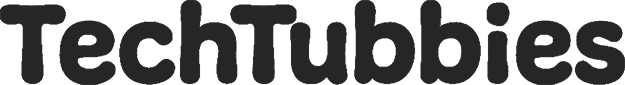
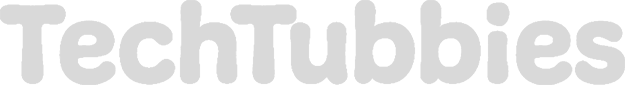
dark mode implementado completamente

diff --git a/public/comunidade.html b/public/comunidade.html
@@ -13,22 +13,25 @@
     <div class="container">
         <div class="header">
             <div class="topHeader">
-                <div class="imgHead imgPo" onclick="location.href='./index.html';"></div>
-                <div class="imgHead imgTinkyWin" onclick="location.href='./curiosidades.html';"></div>
-                <div class="imgHead imgLala" style="background-image: url(./assets/imgs/lala.png); cursor: default;"></div>
-                <div class="imgHead imgDipsy" onclick="location.href='./minijogos.html';"></div>
+                <div id="idImgPo" class="imgHead imgPo" onclick="location.href='./index.html';"></div>
+                <div id="idImgTinkyWin" class="imgHead imgTinkyWin" onclick="location.href='./curiosidades.html';"></div>
+                <div id="idImgLala" class="imgHead LalaUnico" style="cursor: default;"></div>
+                <div id="idImgDipsy" class="imgHead imgDipsy" onclick="location.href='./minijogos.html';"></div>
             </div>
             <div class="middleHeader">
-                <div class="window windPo" onclick="location.href='./index.html';">Home</div>
-                <div class="window windTinkyWin" onclick="location.href='./curiosidades.html';">Curiosidades</div>
-                <div class="window windLala" style="background-color: #fff45a; cursor: default;">Comunidade</div>
-                <div class="window windDipsy" onclick="location.href='./minijogos.html';">Minijogos</div>
-                <img class="logoName" src="./assets/imgs/techtubbiesLala.png">
+                <div id="idWindPo" class="window windPo" onclick="location.href='./index.html';">Home</div>
+                <div id="idWindTinkyWin" class="window windTinkyWin" onclick="location.href='./curiosidades.html';">Curiosidades</div>
+                <div id="idWindLala" class="window windLala middleLalaUnico" style="cursor: default;">Comunidade</div>
+                <div id="idWindDipsy" class="window windDipsy" onclick="location.href='./minijogos.html';">Minijogos</div>
+                <img id="idLogoName" class="logoName" src="./assets/imgs/techtubbiesLala.png">
             </div>
-            <div class="bottomHeaderGeneral bottomHeaderLala"></div>
+            <div id="idBottomHeader" class="bottomHeaderGeneral bottomHeaderLala"></div>
         </div>
-        <div class="pagina"></div>
+        <div class="pagina">
+            Clique <b onclick="colorir()" style="cursor: pointer;">aqui</b> para uma surpresa
+        </div>
     </div>
 </body>
 
 </html>
+<script src="js/changeMode.js"></script>

diff --git a/public/curiosidades.html b/public/curiosidades.html
@@ -13,19 +13,19 @@
     <div class="container">
         <div class="header">
             <div class="topHeader">
-                <div class="imgHead imgPo" onclick="location.href='./index.html';"></div>
-                <div class="imgHead imgTinkyWin" style="background-image: url(./assets/imgs/tinkyWin.png); cursor: default;"></div>
-                <div class="imgHead imgLala" onclick="location.href='./comunidade.html';"></div>
-                <div class="imgHead imgDipsy" onclick="location.href='./minijogos.html';"></div>
+                <div id="idImgPo" class="imgHead imgPo" onclick="location.href='./index.html';"></div>
+                <div id="idImgTinkyWin" class="imgHead TinkyWinUnico" style="cursor: default;"></div>
+                <div id="idImgLala" class="imgHead imgLala" onclick="location.href='./comunidade.html';"></div>
+                <div id="idImgDipsy" class="imgHead imgDipsy" onclick="location.href='./minijogos.html';"></div>
             </div>
             <div class="middleHeader">
-                <div class="window windPo" onclick="location.href='./index.html';">Home</div>
-                <div class="window windTinkyWin" style="background-color: #3f205d; cursor: default;">Curiosidades</div>
-                <div class="window windLala" onclick="location.href='./comunidade.html';">Comunidade</div>
-                <div class="window windDipsy" onclick="location.href='./minijogos.html';">Minijogos</div>
-                <img class="logoName" src="./assets/imgs/techtubbiesTinkyWin.png">
+                <div id="idWindPo" class="window windPo" onclick="location.href='./index.html';">Home</div>
+                <div id="idWindTinkyWin" class="window windTinkyWin middleTinkyWinUnico" style="cursor: default;">Curiosidades</div>
+                <div id="idWindLala" class="window windLala" onclick="location.href='./comunidade.html';">Comunidade</div>
+                <div id="idWindDipsy" class="window windDipsy" onclick="location.href='./minijogos.html';">Minijogos</div>
+                <img id="idLogoName" class="logoName" src="./assets/imgs/techtubbiesTinkyWin.png">
             </div>
-            <div class="bottomHeaderGeneral bottomHeaderTinkyWin"></div>
+            <div id="idBottomHeader" class="bottomHeaderGeneral bottomHeaderTinkyWin"></div>
         </div>
         <div class="pagina">
             <div class="TV">
@@ -37,3 +37,4 @@
 </body>
 
 </html>
+<script src="js/changeMode.js"></script>

diff --git a/public/minijogos.html b/public/minijogos.html
@@ -13,22 +13,23 @@
     <div class="container">
         <div class="header">
             <div class="topHeader">
-                <div class="imgHead imgPo" onclick="location.href='./index.html';"></div>
-                <div class="imgHead imgTinkyWin" onclick="location.href='./curiosidades.html';"></div>
-                <div class="imgHead imgLala" onclick="location.href='./comunidade.html';"></div>
-                <div class="imgHead imgDipsy" style="background-image: url(./assets/imgs/dipsy.png); cursor: default;"></div>
+                <div id="idImgPo" class="imgHead imgPo" onclick="location.href='./index.html';"></div>
+                <div id="idImgTinkyWin" class="imgHead imgTinkyWin" onclick="location.href='./curiosidades.html';"></div>
+                <div id="idImgLala" class="imgHead imgLala" onclick="location.href='./comunidade.html';"></div>
+                <div id="idImgDipsy" class="imgHead DipsyUnico" style="cursor: default;"></div>
             </div>
             <div class="middleHeader">
-                <div class="window windPo" onclick="location.href='./index.html';">Home</div>
-                <div class="window windTinkyWin" onclick="location.href='./curiosidades.html';">Curiosidades</div>
-                <div class="window windLala" onclick="location.href='./comunidade.html';">Comunidade</div>
-                <div class="window windDipsy" style="background-color: #55d13f; cursor: default;">Minijogos</div>
-                <img class="logoName" src="./assets/imgs/techtubbiesDipsy.png">
+                <div id="idWindPo" class="window windPo" onclick="location.href='./index.html';">Home</div>
+                <div id="idWindTinkyWin" class="window windTinkyWin" onclick="location.href='./curiosidades.html';">Curiosidades</div>
+                <div id="idWindLala" class="window windLala" onclick="location.href='./comunidade.html';">Comunidade</div>
+                <div id="idWindDipsy" class="window windDipsy middleDipsyUnico" style="cursor: default;">Minijogos</div>
+                <img id="idLogoName" class="logoName" src="./assets/imgs/techtubbiesDipsy.png">
             </div>
-            <div class="bottomHeaderGeneral bottomHeaderDipsy"></div>
+            <div id="idBottomHeader" class="bottomHeaderGeneral bottomHeaderDipsy"></div>
         </div>
         <div class="pagina"></div>
     </div>
 </body>
 
 </html>
+<script src="js/changeMode.js"></script>

diff --git a/public/index.html b/public/index.html
@@ -13,22 +13,23 @@
     <div class="container">
         <div class="header">
             <div class="topHeader">
-                <div class="imgHead imgPo" style="background-image: url(./assets/imgs/po.png); cursor: default;"></div>
-                <div class="imgHead imgTinkyWin" onclick="location.href='./curiosidades.html';"></div>
-                <div class="imgHead imgLala" onclick="location.href='./comunidade.html';"></div>
-                <div class="imgHead imgDipsy" onclick="location.href='./minijogos.html';"></div>
+                <div id="idImgPo" class="imgHead PoUnico" style="cursor: default;"></div>
+                <div id="idImgTinkyWin" class="imgHead imgTinkyWin" onclick="location.href='./curiosidades.html';"></div>
+                <div id="idImgLala" class="imgHead imgLala" onclick="location.href='./comunidade.html';"></div>
+                <div id="idImgDipsy" class="imgHead imgDipsy" onclick="location.href='./minijogos.html';"></div>
             </div>
             <div class="middleHeader">
-                <div class="window windPo" style="background-color: #d50606; cursor: default;">Home</div>
-                <div class="window windTinkyWin" onclick="location.href='./curiosidades.html';">Curiosidades</div>
-                <div class="window windLala" onclick="location.href='./comunidade.html';">Comunidade</div>
-                <div class="window windDipsy" onclick="location.href='./minijogos.html';">Minijogos</div>
-                <img class="logoName" src="./assets/imgs/techtubbiesPo.png">
+                <div id="idWindPo" class="window windPo middlePoUnico" style="cursor: default;">Home</div>
+                <div id="idWindTinkyWin" class="window windTinkyWin" onclick="location.href='./curiosidades.html';">Curiosidades</div>
+                <div id="idWindLala" class="window windLala" onclick="location.href='./comunidade.html';">Comunidade</div>
+                <div id="idWindDipsy" class="window windDipsy" onclick="location.href='./minijogos.html';">Minijogos</div>
+                <img id="idLogoName" class="logoName" src="./assets/imgs/techtubbiesPo.png">
             </div>
-            <div class="bottomHeaderGeneral bottomHeaderPo"></div>
+            <div id="idBottomHeader" class="bottomHeaderGeneral bottomHeaderPo"></div>
         </div>
         <div class="pagina"></div>
     </div>
 </body>
 
 </html>
+<script src="js/changeMode.js"></script>

diff --git a/public/css/styles.css b/public/css/styles.css
@@ -40,14 +40,26 @@ TOP HEADER
 .topHeader .imgPo {
     background-image: url(".././assets/imgs/poAntenna.png");
 }
+.PoUnico {
+    background-image: url(".././assets/imgs/po.png");
+}
 .topHeader .imgTinkyWin {
     background-image: url(".././assets/imgs/tinkyWinAntenna.png");
+}
+.TinkyWinUnico {
+    background-image: url(".././assets/imgs/tinkyWin.png");
 }
 .topHeader .imgLala {
     background-image: url(".././assets/imgs/lalaAntenna.png");
 }
+.LalaUnico {
+    background-image: url(".././assets/imgs/lala.png");
+}
 .topHeader .imgDipsy {
     background-image: url(".././assets/imgs/dipsyAntenna.png");
+}
+.DipsyUnico {
+    background-image: url(".././assets/imgs/dipsy.png");
 }
 /*
 MIDDLE HEADER
@@ -75,17 +87,29 @@ MIDDLE HEADER
     background-color: #f00404;
     color: #ffdcdc;
 }
+.middlePoUnico {
+    background-color: #d50606;
+}
 .windTinkyWin {
     background-color: #3f106b;
     color: #d5a8ff;
+}
+.middleTinkyWinUnico {
+    background-color: #3f205d;
 }
 .windLala {
     background-color: #faff00;
     color: #4d4e09;
 }
+.middleLalaUnico {
+    background-color: #fff45a;
+}
 .windDipsy {
     background-color: #66eb4f;
     color: #154e0a;
+}
+.middleDipsyUnico {
+    background-color: #55d13f;
 }
 .logoName {
     width: 33%;
@@ -114,6 +138,35 @@ BOTTOM HEADER
 }
 /*
 FIM DO HEADER
+*/
+
+/*
+INICIO DO DARK MODE HEADER
+*/
+.darkBackground {
+    background-image: url(".././assets/imgs/background-night.png");
+}
+.topHeader .darkImgPo {
+    background-image: url(".././assets/imgs/po-ver2.png");
+}
+.topHeader .darkImgTinkyWin {
+    background-image: url(".././assets/imgs/tinkyWin-ver2.png");
+}
+.topHeader .darkImgLala {
+    background-image: url(".././assets/imgs/lala-ver2.png");
+}
+.topHeader .darkImgDipsy {
+    background-image: url(".././assets/imgs/dipsy-ver2.png");
+}
+.windDark {
+    background-color: #2a2a2a;
+    color: #a0a0a0;
+}
+.bottomHeaderDark {
+    background-color: #2a2a2a;
+}
+/*
+FIM DO DARK MODE HEADER
 */
 
 

diff --git a/public/js/changeMode.js b/public/js/changeMode.js
@@ -1,0 +1,36 @@
+if (!(sessionStorage.mode == "light" || sessionStorage.mode == "night")) {
+    sessionStorage.mode = "light"
+}
+
+if (sessionStorage.mode == "night") {
+
+    document.body.classList.add("darkBackground");
+
+    idImgPo.classList.add("darkImgPo");
+    idImgTinkyWin.classList.add("darkImgTinkyWin");
+    idImgLala.classList.add("darkImgLala");
+    idImgDipsy.classList.add("darkImgDipsy");
+
+    idWindPo.classList.add("windDark");
+    idWindTinkyWin.classList.add("windDark");
+    idWindLala.classList.add("windDark");
+    idWindDipsy.classList.add("windDark");
+
+    idWindPo.classList.remove("middlePoUnico");
+    idWindTinkyWin.classList.remove("middleTinkyWinUnico");
+    idWindLala.classList.remove("middleLalaUnico");
+    idWindDipsy.classList.remove("middleDipsyUnico");
+    
+    idBottomHeader.classList.add("bottomHeaderDark");
+
+    idLogoName.src = "./assets/imgs/techtubbiesDark.png"
+}
+function colorir() {
+    if (sessionStorage.mode == "night") {
+        sessionStorage.mode = "light"
+    }
+    else if (sessionStorage.mode == "light") {
+        sessionStorage.mode = "night"
+    }
+    document.location.reload()
+}
